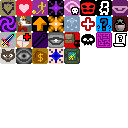
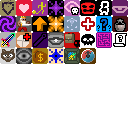
ReInc 0.6.2: added a new coinflip conduct

Changed region(s): [[0.625, 0.375, 0.75, 0.5]]

diff --git a/core/src/main/java/com/shatteredpixel/shatteredpixeldungeon/items/wands/Wand.java b/core/src/main/java/com/shatteredpixel/shatteredpixeldungeon/items/wands/Wand.java
@@ -78,6 +78,7 @@ import com.shatteredpixel.shatteredpixeldungeon.scenes.GameScene;
 import com.shatteredpixel.shatteredpixeldungeon.sprites.CharSprite;
 import com.shatteredpixel.shatteredpixeldungeon.sprites.ItemSprite;
 import com.shatteredpixel.shatteredpixeldungeon.sprites.ItemSpriteSheet;
+import com.shatteredpixel.shatteredpixeldungeon.tiles.DungeonTilemap;
 import com.shatteredpixel.shatteredpixeldungeon.ui.QuickSlotButton;
 import com.shatteredpixel.shatteredpixeldungeon.utils.GLog;
 import com.watabou.noosa.audio.Sample;
@@ -1058,7 +1059,13 @@ public abstract class Wand extends Weapon implements ChargingItem, AttunementIte
 						} else {
 							curWand.fx(shot, new Callback() {
 								public void call() {
-									curWand.onZap(shot);
+                                    if (Dungeon.isChallenged(Conducts.Conduct.COINFLIP) && Random.Int(2) == 0){
+                                        PointF point = DungeonTilemap.tileCenterToWorld(shot.collisionPos);
+                                        FloatingText.show( point.x, point.y, shot.collisionPos, curUser.defenseVerb(), CharSprite.NEUTRAL, FloatingText.MISS_COINFLIP, true );
+                                        Buff.detach(curUser, Talent.FightingWizardryTracker.class);
+                                    } else {
+                                        curWand.onZap(shot);
+                                    }
 									wondrousProc(curWand, target);
 								}
 							});

diff --git a/core/src/main/java/com/shatteredpixel/shatteredpixeldungeon/actors/Char.java b/core/src/main/java/com/shatteredpixel/shatteredpixeldungeon/actors/Char.java
@@ -711,6 +711,16 @@ public abstract class Char extends Actor implements ManaSource, DamageSource {
 			((Hero) defender).interrupt();
 		}
 
+        if (Dungeon.isChallenged(Conducts.Conduct.COINFLIP)){
+            if (Random.Int(2) == 0){
+                hitMissIcon = FloatingText.MISS_COINFLIP;
+                return false;
+            } else {
+                hitMissIcon = FloatingText.MISS_COINFLIP;
+                return true;
+            }
+        }
+
 		//invisible chars always hit (for the hero this is surprise attacking)
 		if (attacker.invisible > 0 && attacker.canSurpriseAttack()){
 			acuStat = INFINITE_ACCURACY;

diff --git a/core/src/main/java/com/shatteredpixel/shatteredpixeldungeon/effects/FloatingText.java b/core/src/main/java/com/shatteredpixel/shatteredpixeldungeon/effects/FloatingText.java
@@ -154,6 +154,7 @@ public class FloatingText extends RenderedTextBlock {
     public static int MISS_SHRINK = 126;
     public static int MISS_EXPLORE= 127;
     public static int MISS_WRAITH = 128;
+    public static int MISS_COINFLIP = 129;
 
 	private Image icon;
 	private boolean iconLeft;

diff --git a/core/src/main/java/com/shatteredpixel/shatteredpixeldungeon/Conducts.java b/core/src/main/java/com/shatteredpixel/shatteredpixeldungeon/Conducts.java
@@ -59,6 +59,7 @@ public class Conducts {
         NO_STR(1.4f, 16),
 //        CHAMPS(1.7f),
         NO_REGEN(1.66f, 18),
+        COINFLIP(1.66f, 30),
         CAPITALISM(1.33f, 27){
             @Override
             public float scoreMod() {
